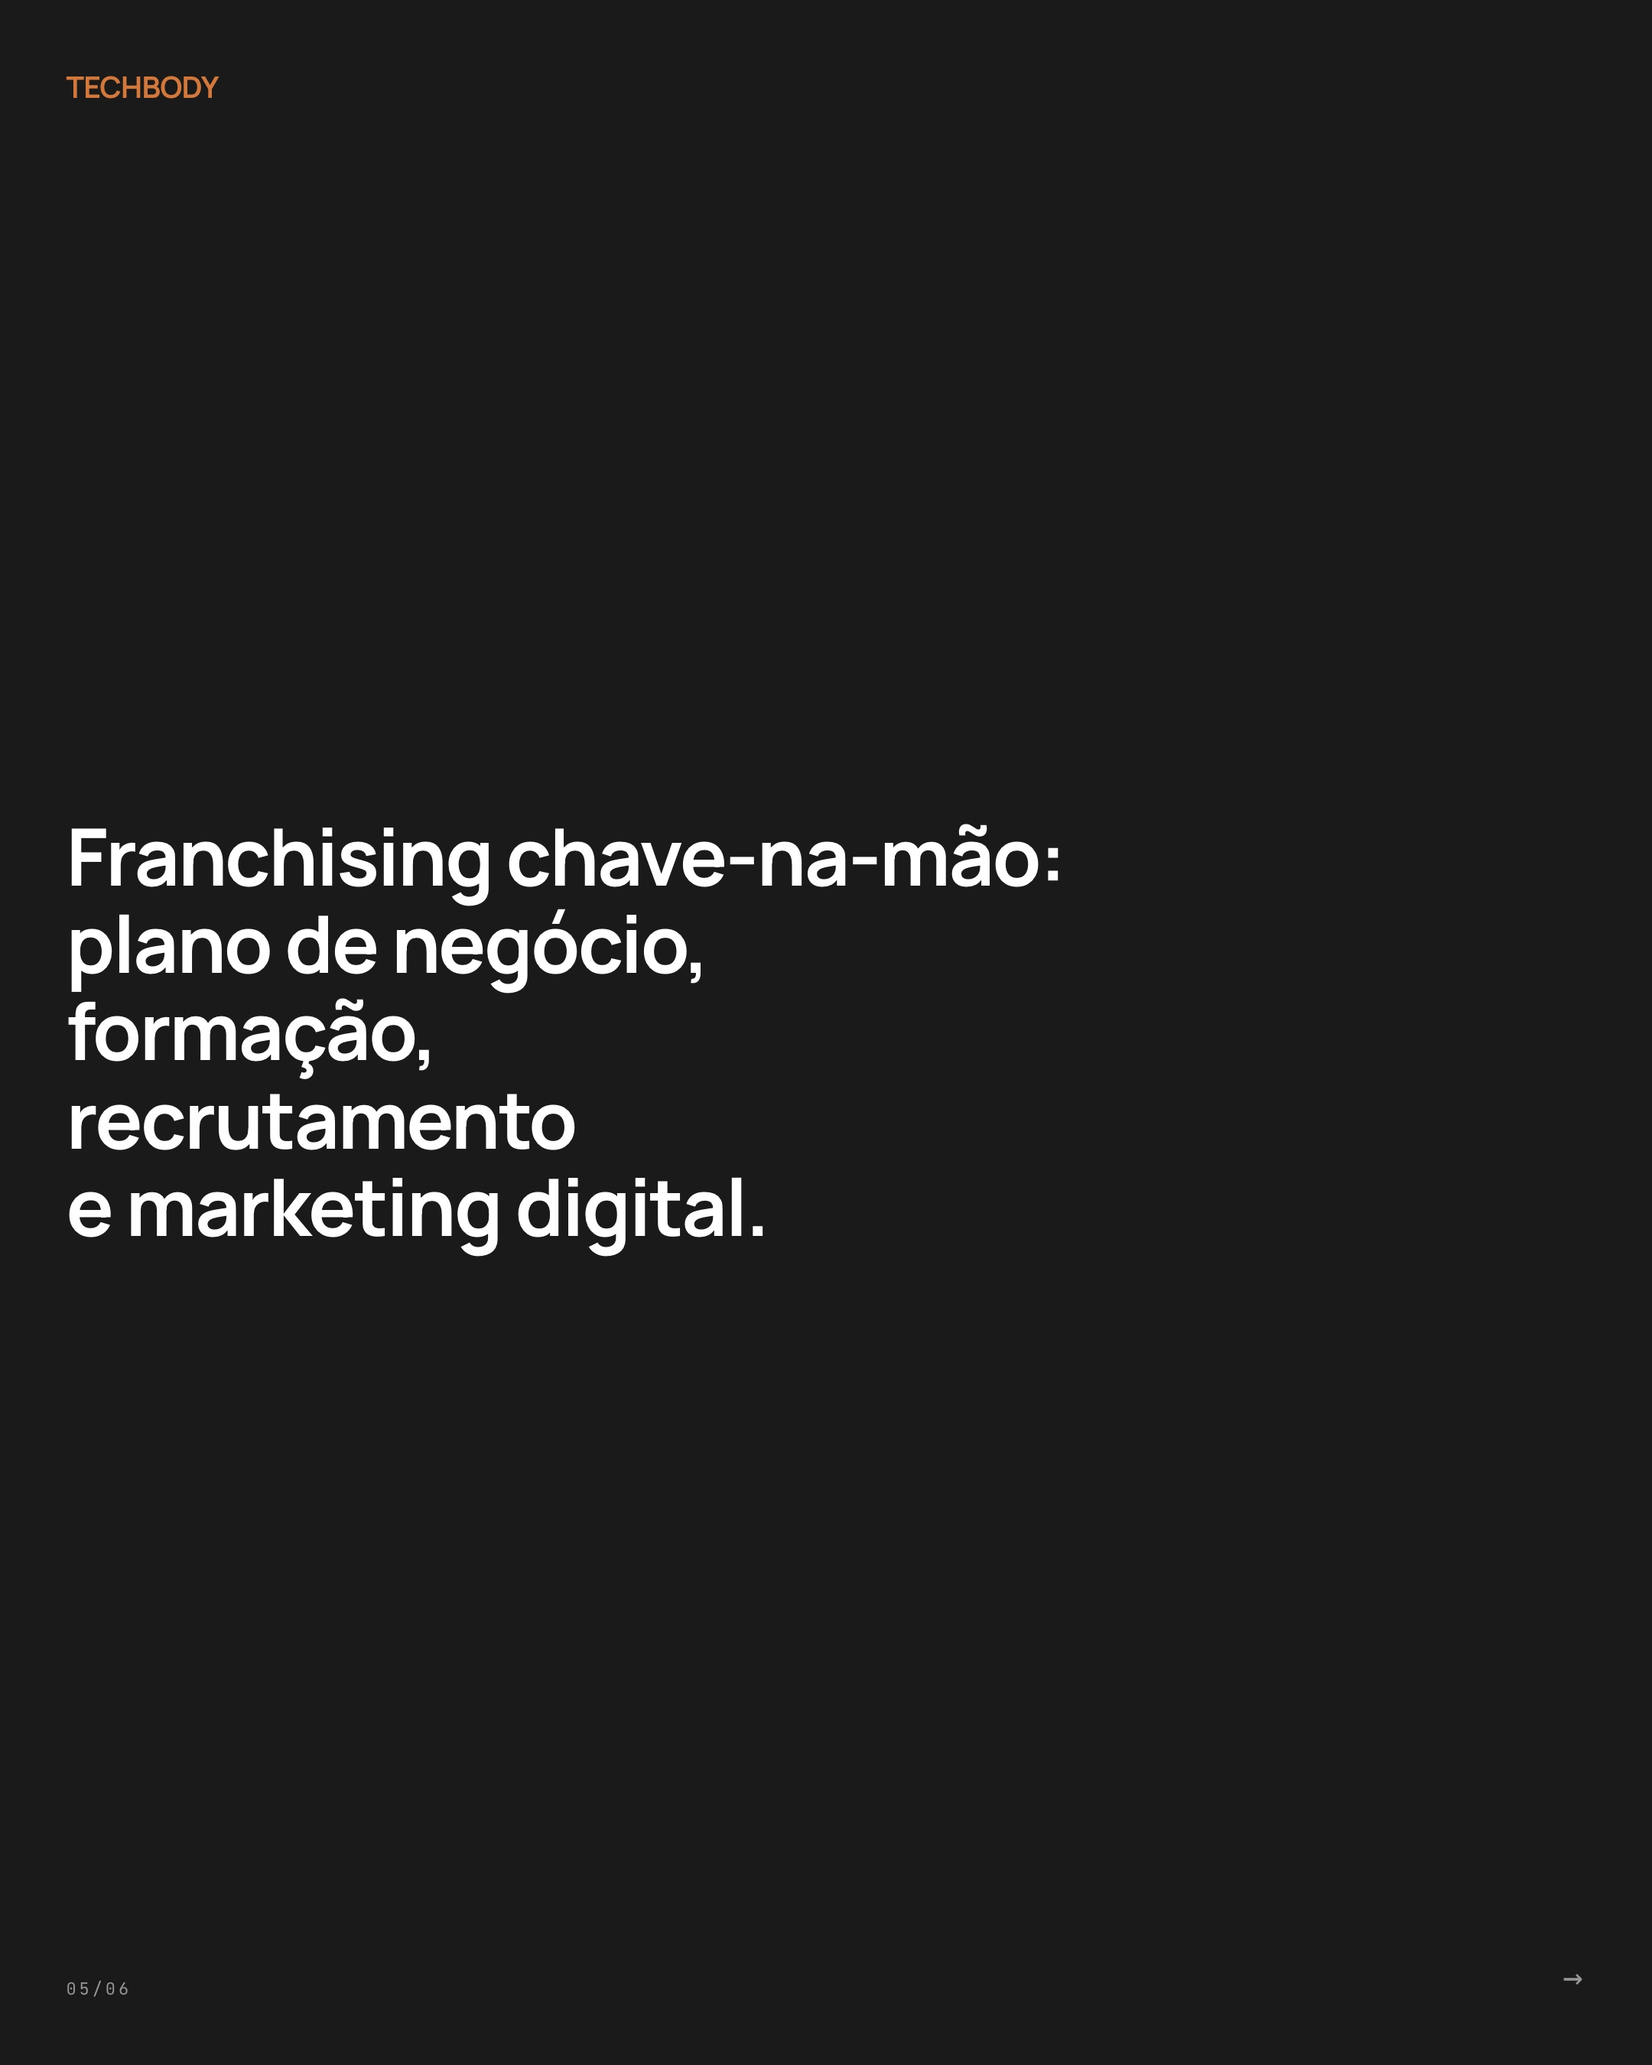
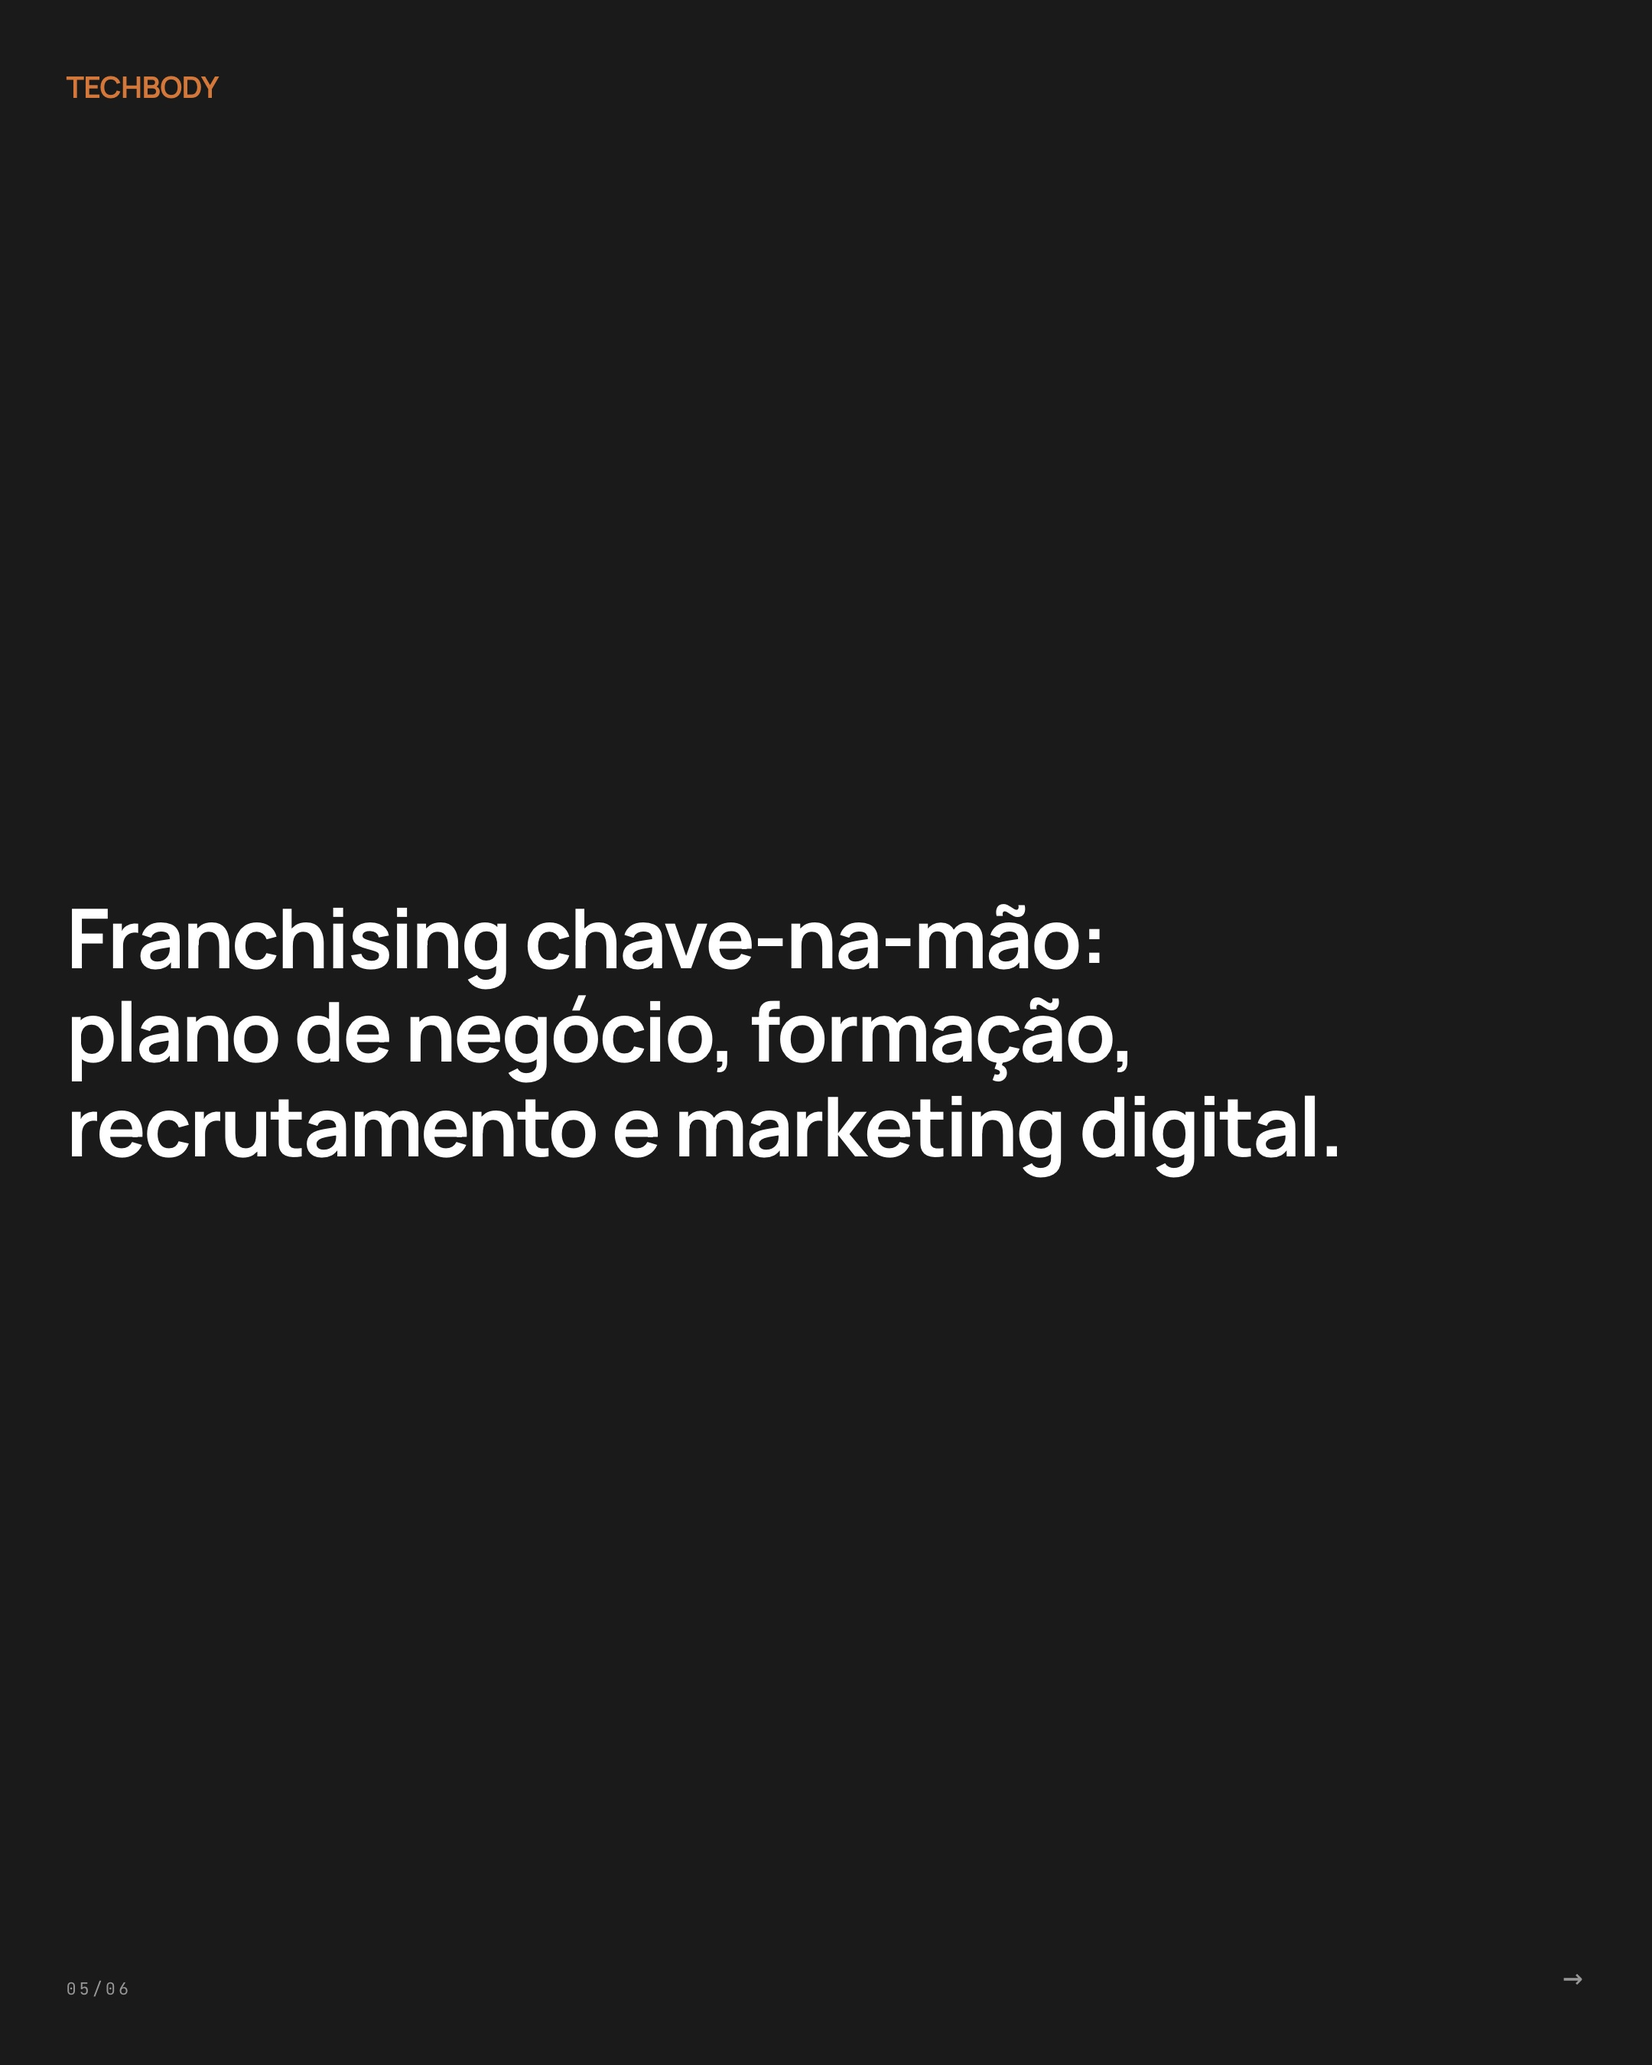
fix(carrosseis): "Franchising chave-na-mão" numa linha + re-render thumbnails
Slide 5 dos c04 (Luiz + TechBody): o headline passa a white-space:nowrap,
anulando a max-width da caixa e o overflow-wrap:break-word herdado. O TEXTO
manda — quebra só nos <br> postos à mão; o termo composto "chave-na-mão"
nunca parte ao meio. TB rebalanceado de 5 linhas ragged para 3 limpas.

Re-renderizados os _shots/slide_05 (png+jpg) das duas carrosséis: os
thumbnails da grelha de aprovação mostravam o texto antigo (quebra errada)
porque a imagem pré-renderizada estava desatualizada — o fix no HTML não
chegava lá. Esta era a peça em falta.

Bump 20260527-1850 -> 20260527-2240 (tb + luiz + franchise-tb) para a
ferramenta refazer o fetch dos thumbnails (cache-bust ?v=APP_VERSION).

Changed region(s): [[0.031, 0.4044, 0.8065, 0.6222]]

diff --git a/public/brands/luiz_santana/output/2026-05/carrosseis/c04-b2b-ferramenta.html b/public/brands/luiz_santana/output/2026-05/carrosseis/c04-b2b-ferramenta.html
@@ -158,6 +158,10 @@ h1, h2, h3, p, blockquote, .num {
 .slide.slide--type .slide__body h1 { font-size: clamp(34px, 5.5vw, 64px) !important; line-height: 1.06 !important; }
 .slide.slide--photo .slide__body h1 { font-size: clamp(30px, 5vw, 56px) !important; line-height: 1.06 !important; }
 .slide.slide--quote .slide__body blockquote { font-size: clamp(26px, 4vw, 48px) !important; }
+/* Slide 5 — o TEXTO manda, não a caixa: nunca quebra sozinho; quebras só nos <br> à mão.
+   white-space:nowrap torna o auto-wrap impossível; anulamos a max-width (a caixa) e o
+   break-word para o termo composto "chave-na-mão" nunca partir ao meio. */
+#slide-5 .slide__body h1 { white-space: nowrap !important; overflow-wrap: normal !important; word-break: keep-all !important; max-width: none !important; width: auto !important; font-size: clamp(32px, 5vw, 54px) !important; line-height: 1.14 !important; }
 </style>
 </head>
 <body>
@@ -201,7 +205,7 @@ h1, h2, h3, p, blockquote, .num {
   <div class="slide__photo" style="background-image:url('../../../assets/photos/magnific_a2-convidativa-acolhedora_2964293661.jpg')"></div>
   <div class="slide__top"><span class="brand-glyph">Luiz Santana</span></div>
   <div class="slide__body">
-        <h1>Franchising&nbsp;chave‑na‑mão.<br>Plano&nbsp;financeiro,&nbsp;formação,<br>recrutamento&nbsp;e&nbsp;marketing.</h1>
+        <h1>Franchising chave‑na‑mão.<br>Plano financeiro, formação,<br>recrutamento e marketing.</h1>
         </div>
   <div class="slide__bottom"><span>05/06</span><span class="arrow">→</span></div>
 </article>

diff --git a/public/brands/techbody/output/2026-05/carrosseis/c04-modelo-franchising.html b/public/brands/techbody/output/2026-05/carrosseis/c04-modelo-franchising.html
@@ -152,7 +152,12 @@ h1, h2, h3, p, blockquote, .num {
   text-wrap: pretty;
 }
 </style>
-<style>#slide-5 .slide__body h1{font-size:clamp(28px,4.8vw,52px)!important;max-width:27ch!important;width:27ch!important;line-height:1.1!important;}</style>
+<style>
+/* Slide 5 — o TEXTO manda, não a caixa: nunca quebra sozinho; quebras só nos <br> à mão.
+   white-space:nowrap torna o auto-wrap impossível; anulamos a max-width (a caixa) e o
+   break-word herdado para o termo composto "chave-na-mão" nunca partir ao meio. */
+#slide-5 .slide__body h1{white-space:nowrap!important;overflow-wrap:normal!important;word-break:keep-all!important;max-width:none!important;width:auto!important;font-size:clamp(32px,5vw,54px)!important;line-height:1.14!important;}
+</style>
 </head>
 <body>
 <section class="carousel" aria-label="Carrossel TechBody — modelo_franchising">
@@ -190,7 +195,7 @@ h1, h2, h3, p, blockquote, .num {
 
 <article class="slide slide--type" id="slide-5">
   <div class="slide__top"><span class="brand-glyph">TechBody</span></div>
-  <div class="slide__body"><h1>Franchising&nbsp;chave‑na‑mão:<br>plano de negócio,<br>formação,<br>recrutamento<br>e marketing digital.</h1></div>
+  <div class="slide__body"><h1>Franchising chave‑na‑mão:<br>plano de negócio, formação,<br>recrutamento e marketing digital.</h1></div>
   <div class="slide__bottom"><span>05/06</span><span class="arrow">→</span></div>
 </article>
 

diff --git a/public/aprovacao-luiz-202605/js/config.js b/public/aprovacao-luiz-202605/js/config.js
@@ -33,4 +33,4 @@ export const AUTH_ENABLED = false;
 // Versão do app. Comparada periodicamente contra /version.txt no servidor.
 // Se divergir, o badge muda para "🔄 Nova versão" e o user sabe que está
 // numa sessão desactualizada. Bump em cada deploy importante.
-export const APP_VERSION = "20260527-1850";
+export const APP_VERSION = "20260527-2240";

diff --git a/public/aprovacao-tb-202605/js/config.js b/public/aprovacao-tb-202605/js/config.js
@@ -33,4 +33,4 @@ export const AUTH_ENABLED = false;
 // Versão do app. Comparada periodicamente contra /version.txt no servidor.
 // Se divergir, o badge muda para "🔄 Nova versão" e o user sabe que está
 // numa sessão desactualizada. Bump em cada deploy importante.
-export const APP_VERSION = "20260527-1850";
+export const APP_VERSION = "20260527-2240";

diff --git a/public/franchise-tb-202605/index.html b/public/franchise-tb-202605/index.html
@@ -4,7 +4,7 @@
 <meta charset="utf-8" />
 <meta name="viewport" content="width=device-width,initial-scale=1" />
 <title>Conteúdos TechBody</title>
-<meta name="app-version" content="20260527-1850" />
+<meta name="app-version" content="20260527-2240" />
 
 <script>
   // Auto cache-bust por versão + Service Worker registration.

diff --git a/public/aprovacao-luiz-202605/index.html b/public/aprovacao-luiz-202605/index.html
@@ -3,7 +3,7 @@
 <head>
 <meta charset="utf-8" />
 <meta name="viewport" content="width=device-width,initial-scale=1" />
-<meta name="app-version" content="20260527-1850" />
+<meta name="app-version" content="20260527-2240" />
 <title>Aprovação · Conteúdo</title>
 
 <script>

diff --git a/public/aprovacao-tb-202605/index.html b/public/aprovacao-tb-202605/index.html
@@ -3,7 +3,7 @@
 <head>
 <meta charset="utf-8" />
 <meta name="viewport" content="width=device-width,initial-scale=1" />
-<meta name="app-version" content="20260527-1850" />
+<meta name="app-version" content="20260527-2240" />
 <title>Aprovação · Conteúdo</title>
 
 <script>

diff --git a/public/aprovacao-luiz-202605/CLAUDE.md b/public/aprovacao-luiz-202605/CLAUDE.md
@@ -4,44 +4,24 @@
 
 <!-- claude-evolve:managed-start -->
 
-<!-- claude-evolve:rule id=r_mpcjp1oz_p3dh score=6.2 created=2026-05-19 source=observation complexity=simple -->
-- Before writing a bulk-patch Python script to /tmp, run a targeted grep on the actual HTML structure (data-slide, h1, h2 markers) to confirm the DOM shape matches your script's assumptions — then edit the script if needed before executing
-<!-- /claude-evolve:rule -->
-
-<!-- claude-evolve:rule id=r_mpcjp1pf_uhdv score=5.5 created=2026-05-19 source=observation complexity=simple -->
-- When applying bulk changes across multiple HTML files, create a /tmp backup of all affected data files (items.json, captions.json) before executing the patch script
-<!-- /claude-evolve:rule -->
-
 <!-- claude-evolve:rule id=r_mpcjp1pm_k45b score=5.1 created=2026-05-19 source=observation complexity=simple -->
 - When a task involves client-specific brand voice rules discovered mid-session, immediately create a dedicated memory file and a TaskCreate to record them before proceeding with content edits — never defer memory writes to after the edits
 <!-- /claude-evolve:rule -->
 
-<!-- claude-evolve:rule id=r_mpcjp1ps_mrzv score=5.3 created=2026-05-19 source=observation complexity=simple -->
+<!-- claude-evolve:rule id=r_mpcjp1ps_mrzv score=5.2 created=2026-05-19 source=observation complexity=simple -->
 - When HTML files may exist in multiple mirror locations (public/brands, content-machine/brands, aprovacao/brands), run a diff + find to map all copies before editing any single copy — then propagate changes via cp to all mirrors in one Bash call
 <!-- /claude-evolve:rule -->
 
-<!-- claude-evolve:rule id=r_mpcjp1pz_dozb score=5.5 created=2026-05-19 source=observation complexity=simple -->
-- After a multi-file patch script runs, immediately verify data state with a python3 inline check (json.load + print key fields) in the same Bash call using echo separators — do not rely on script exit code alone
+<!-- claude-evolve:rule id=r_mpfktsvw_ri9h score=5.4 created=2026-05-21 source=observation complexity=simple -->
+- Always Read THEMES_ROSTER.md before editing it, then immediately mark consumed themes with strikethrough + [USADO <format> · <date>] in the same session
 <!-- /claude-evolve:rule -->
 
-<!-- claude-evolve:rule id=r_mpcjp1q5_znz4 score=6.2 created=2026-05-19 source=anti_pattern complexity=simple -->
-- Do not write a /tmp patch script and execute it in the same Bash call without first inspecting the target HTML structure — always interpose a grep of the DOM between Write and Bash execute
+<!-- claude-evolve:rule id=r_mpfktsxb_vumr score=5.4 created=2026-05-21 source=observation complexity=simple -->
+- When initiating the first download to a new directory, always mkdir -p the target path in the same Bash call — never assume the directory exists.
 <!-- /claude-evolve:rule -->
 
-<!-- claude-evolve:rule id=r_mpcjp1qb_j7gn score=5.4 created=2026-05-19 source=anti_pattern complexity=simple -->
-- Do not run multiple sequential python3 heredoc probes on the same JSON files to discover structure incrementally — batch all structure discovery (keys, formats, slide counts, photo fields) into a single python3 script in one Bash call
-<!-- /claude-evolve:rule -->
-
-<!-- claude-evolve:rule id=r_mpcjwqp4_ziqd score=5.9 created=2026-05-19 source=observation complexity=simple -->
-- Before writing a Playwright/screenshot render script to /tmp, verify the runtime is available (playwright import check + chromium cache listing) in a single Bash call before writing any script
-<!-- /claude-evolve:rule -->
-
-<!-- claude-evolve:rule id=r_mpcjwqpi_9lyg score=5.1 created=2026-05-19 source=observation complexity=simple -->
-- Before executing a render/screenshot script that depends on a local HTTP server, curl -sI the target URL first and confirm HTTP 200 in the same Bash call — only proceed if server is confirmed live
-<!-- /claude-evolve:rule -->
-
-<!-- claude-evolve:rule id=r_mpcjwqpq_o6xh score=5.3 created=2026-05-19 source=observation complexity=simple -->
-- When exploring a JS component's image/asset URL construction, layer grep calls from broad field names (photo, bg, thumb, preview, src) to specific variable names (jpgUrl, shotJpg, _shots) — broad first, narrow second
+<!-- claude-evolve:rule id=r_mpfktsxp_slds score=5.6 created=2026-05-21 source=observation complexity=simple -->
+- Load the agent persona file (e.g., pontofinal-copywriter.md) via Read before spawning an Agent with that persona — ensures the prompt can reference confirmed file contents rather than assumed paths
 <!-- /claude-evolve:rule -->
 
 <!-- claude-evolve:managed-end -->

diff --git a/CLAUDE.md b/CLAUDE.md
@@ -4,11 +4,11 @@
 
 <!-- claude-evolve:managed-start -->
 
-<!-- claude-evolve:rule id=r_mpbf8j0x_pt93 score=7.1 created=2026-05-18 source=observation complexity=simple -->
+<!-- claude-evolve:rule id=r_mpbf8j0x_pt93 score=6.3 created=2026-05-18 source=observation complexity=simple -->
 - After a git push, immediately start a polling loop against the GitHub Actions API using head_sha to confirm the correct commit's CI run reached a conclusive state before closing the task.
 <!-- /claude-evolve:rule -->
 
-<!-- claude-evolve:rule id=r_mpe077jp_8i1x score=6.9 created=2026-05-20 source=observation complexity=simple -->
+<!-- claude-evolve:rule id=r_mpe077jp_8i1x score=7 created=2026-05-20 source=observation complexity=simple -->
 - After any functional change to a web app, bump the version atomically in all three locations: version.txt, js/config.js (APP_VERSION constant), and index.html (<meta name="app-version">). Do all three in one pass; never update only a subset.
 <!-- /claude-evolve:rule -->
 
@@ -24,19 +24,19 @@
 - After producing and queuing content pieces, immediately update THEMES_ROSTER.md with strikethrough + [USADO <format> · <date> · queue] for every consumed theme — never leave the roster in an ambiguous used/unused state.
 <!-- /claude-evolve:rule -->
 
-<!-- claude-evolve:rule id=r_mplcyorg_heh8 score=5.8 created=2026-05-25 source=observation complexity=simple -->
+<!-- claude-evolve:rule id=r_mplcyorg_heh8 score=5.1 created=2026-05-25 source=observation complexity=simple -->
 - When navigating to a Cloudflare dashboard page that may have a cookie/consent dialog, use mcp__claude-in-chrome__find to detect dialog buttons before attempting any interactive actions — this avoids clicking on blocked UI elements.
 <!-- /claude-evolve:rule -->
 
-<!-- claude-evolve:rule id=r_mplcyorz_m74k score=5.9 created=2026-05-25 source=observation complexity=simple -->
+<!-- claude-evolve:rule id=r_mplcyorz_m74k score=5.3 created=2026-05-25 source=observation complexity=simple -->
 - When diagnosing a CI/CD deployment failure, navigate to the actual dashboard (Cloudflare Pages, GitHub Actions) to visually confirm the project exists and the account ID is correct before editing config files — do not assume secrets are correct.
 <!-- /claude-evolve:rule -->
 
-<!-- claude-evolve:rule id=r_mplcyosh_f83h score=5.9 created=2026-05-25 source=observation complexity=simple -->
+<!-- claude-evolve:rule id=r_mplcyosh_f83h score=5.2 created=2026-05-25 source=observation complexity=simple -->
 - When fixing a deployment that fails due to a wrong account ID secret, hardcode the verified account ID directly into the workflow file rather than relying on a secret that may point to the wrong account.
 <!-- /claude-evolve:rule -->
 
-<!-- claude-evolve:rule id=r_mplcyosw_d029 score=5.6 created=2026-05-25 source=anti_pattern complexity=simple -->
+<!-- claude-evolve:rule id=r_mplcyosw_d029 score=5.8 created=2026-05-25 source=anti_pattern complexity=simple -->
 - After navigating to a new page with claude-in-chrome, do not immediately call read_page or find — take a screenshot first to confirm the page loaded and is in the expected state, then decide whether interactive elements or a find query are appropriate.
 <!-- /claude-evolve:rule -->
 
